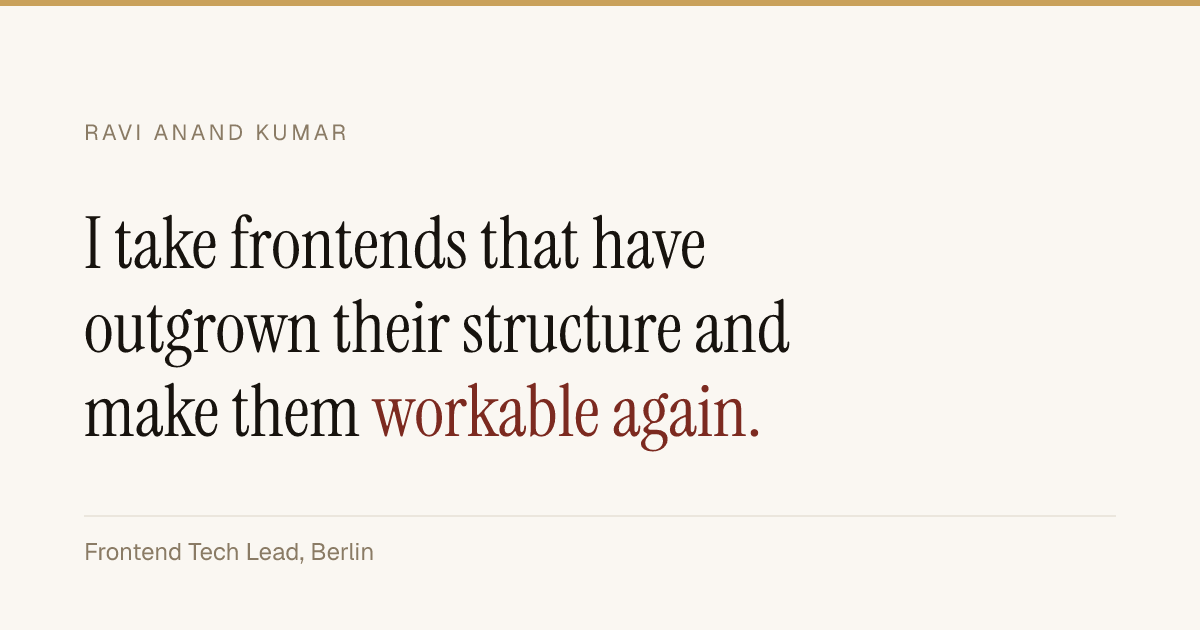
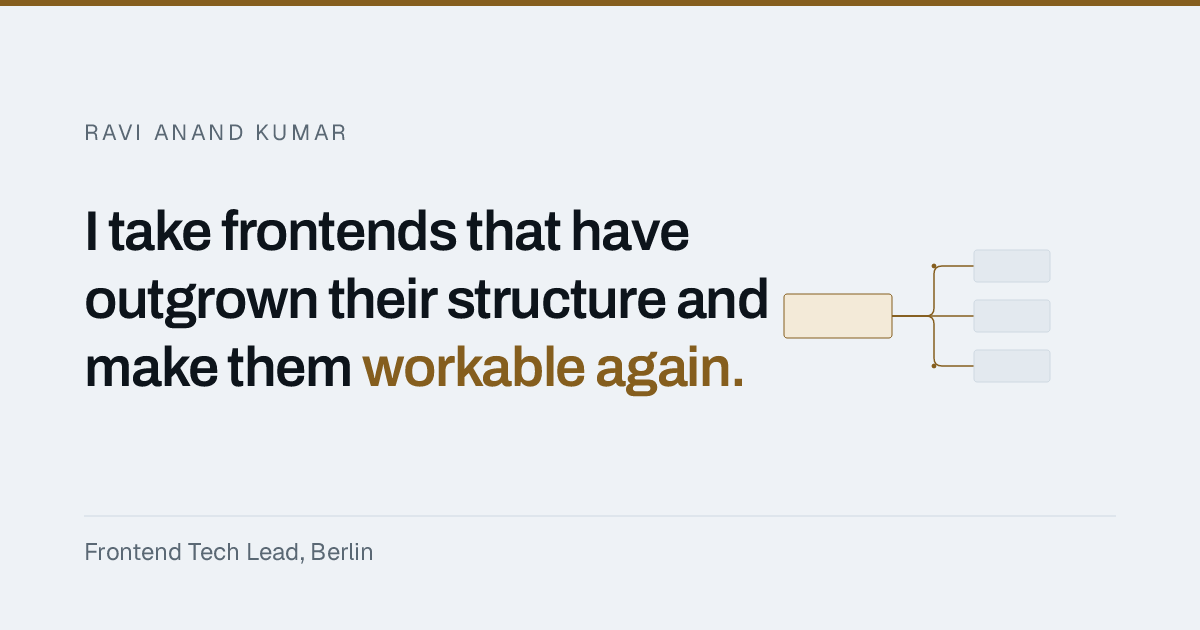
Make the quality claims into build checks, and reissue the OG card
Phase 07. The guarantees in the design spec were true because I measured them in
a browser, which only holds while somebody remembers to measure. Three of them
are now build steps, and each was confirmed to fail before being trusted.

verify-contrast reads the emitted CSS, not the SCSS, so it checks what shipped.
It walks every text token against every surface token in both themes, 30 pairs,
and fails below 4.5:1. Confirmed by reintroducing the exact value from the first
palette draft: it reported --ink-subtle #6d7c89 at 3.81 on --bg, 4.29 on
--surface and 3.51 on --panel, and exited non-zero. The worst real pair is
--meta on --panel in dark at 4.61.

Heading order is checked on all ten prerendered pages: exactly one h1, no level
skipped. Confirmed by changing an h2 to an h4 on /ai, which failed the build
naming the route and the jump. 39 headings currently in order.

Person structured data is now in index.html and parsed by the verifier rather
than string-matched, because a malformed JSON-LD block renders identically and
is silently dropped. The check also requires every sameAs profile to be linked
somewhere on the page by href, which caught a removed footer link when tested.
Matching by href matters: the JSON-LD contains those URLs itself, so a substring
test could never fail.

The OG card was broken and off-palette. It still referenced
instrument-serif-400.woff2, deleted in phase 02, so the generator crashed on
[…]

diff --git a/src/index.html b/src/index.html
@@ -22,6 +22,35 @@
       if (t === 'dark' || t === 'light') document.documentElement.setAttribute('data-theme', t);
     } catch (e) {}
   </script>
+  <!--
+    Site-wide identity, so search engines can tie the pages to one person rather
+    than guessing. Static here rather than injected by the Seo service: it is the
+    same on every route, and a script tag is awkward to manage through Angular's
+    Meta service. Every field is checkable. jobTitle and the sameAs profiles match
+    what /about and the footer already state, and there are no claims about
+    employers or skills here that the pages do not make themselves.
+  -->
+  <script type="application/ld+json">
+    {
+      "@context": "https://schema.org",
+      "@type": "Person",
+      "name": "Ravi Anand Kumar",
+      "jobTitle": "Frontend Tech Lead",
+      "url": "https://ravianand1988.github.io/",
+      "image": "https://ravianand1988.github.io/assets/photo.jpg",
+      "address": {
+        "@type": "PostalAddress",
+        "addressLocality": "Berlin",
+        "addressCountry": "DE"
+      },
+      "knowsLanguage": ["en", "hi", "de"],
+      "sameAs": [
+        "https://www.linkedin.com/in/ravianandkumar/",
+        "https://github.com/ravianand1988",
+        "https://stackoverflow.com/users/2444505/ravi-anand"
+      ]
+    }
+  </script>
 </head>
 <body>
   <app-root></app-root>
